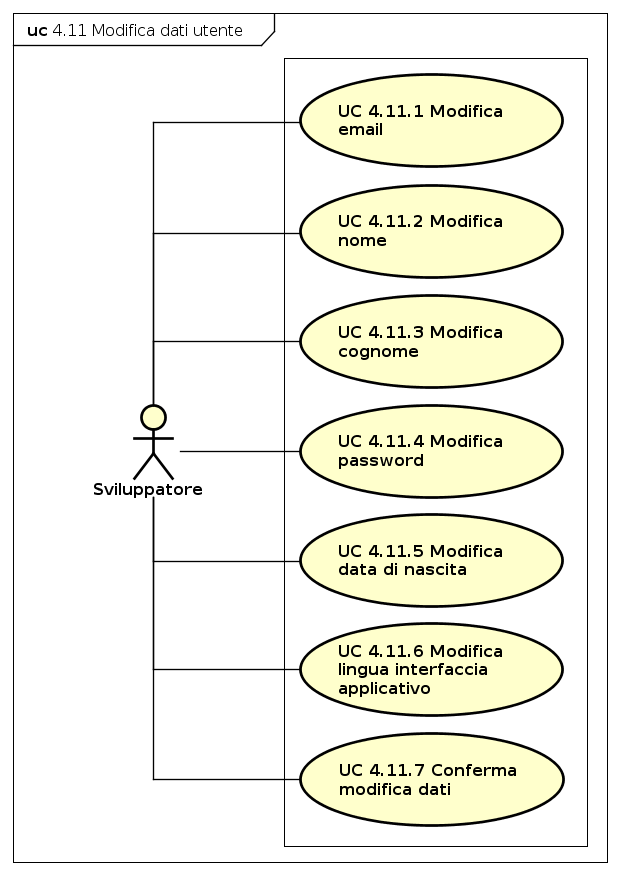
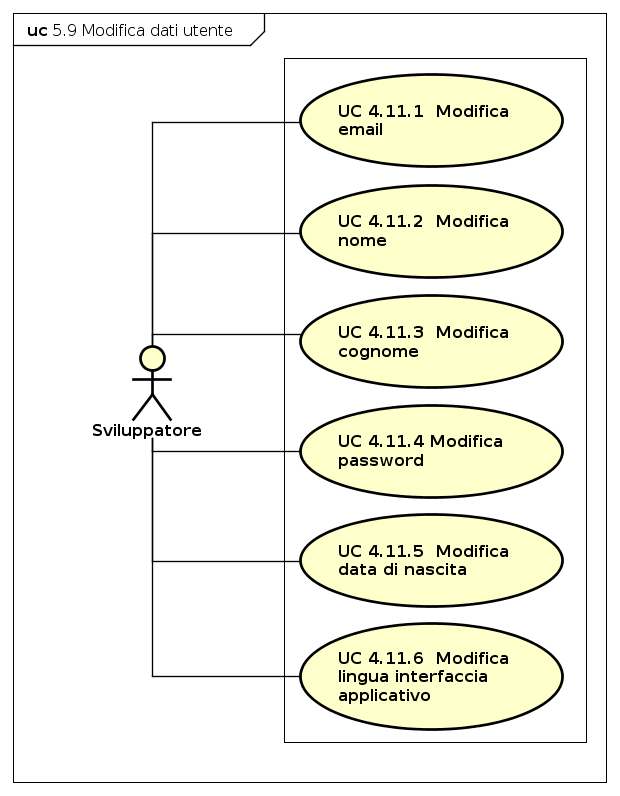
Modifcato sviluppatore

Changed region(s): [[0.0306, 0.0, 0.9806, 0.995]]

diff --git a/RP/Analisi_dei_requisiti/sez/sviluppatori.tex b/RP/Analisi_dei_requisiti/sez/sviluppatori.tex
@@ -44,8 +44,8 @@
 	\item[•]\textbf{Estensioni}:
 	\begin{enumerate}
 		\item UC 4.3.7 - Rimozione filtro;
-		\item UC 4.3.1.1 - Visualizzazione messaggio errore data errata;
-		\item UC 4.3.4.1 - Visualizzazione messaggio errore input errato.
+		\item UC 4.3.8 - Visualizzazione messaggio errore data errata;
+		\item UC 4.3.9 - Visualizzazione messaggio errore input errato.
 	\end{enumerate}
 	\item[•]\textbf{Inclusioni}:
 	\begin{enumerate}
@@ -65,22 +65,13 @@
 	\end{enumerate}
 	\item[•]\textbf{Estensioni}: 
 	\begin{enumerate}
-		\item UC 4.3.1.1 - Visualizzazione messaggio errore data errata;
-		\item UC 4.3.7 - Rimozione filtro.
+		\item UC 4.3.7 - Rimozione filtro;
+		\item UC 4.3.8 - Visualizzazione messaggio errore data errata;
 	\end{enumerate}
 	\item[•]\textbf{Inclusioni}:
 	\begin{enumerate}
 		\item UC 4.3.6 - Visualizzazione dati filtrati.
 	\end{enumerate}
-\end{itemize}
-
-\subsubsection{UC 4.3.1.1 - Visualizzazione messaggio errore data errata}
-\begin{itemize}
-	\item[•]\textbf{Attori}: Sviluppatore;
-	\item[•]\textbf{Descrizione}: lo sviluppatore visualizza un messaggio di errore sul periodo selezionato;
-	\item[•]\textbf{Precondizione}: lo sviluppatore ha inserito una data non conforme all'interno del filtro relativo al periodo temporale;
-	\item[•]\textbf{Postcondizione}: il filtro è stato erroneamente inserito pertanto viene visualizzato un messaggio di errore;
-	\item[•]\textbf{Flusso degli eventi}: lo sviluppatore ha inserito una data non conforme, cioè che non rispetta il formato stabilito o che indica un periodo temporale non idoneo, pertanto visualizza un messaggio di errore.
 \end{itemize}
 
 \subsubsection{UC 4.3.2 - Inserimento filtro fonte}
@@ -135,17 +126,6 @@
 	\end{enumerate}
 \end{itemize}
 
-\subsubsection{UC 4.3.4.1 - Visualizzazione messaggio errore input errato}
-\begin{itemize}
-	\item[•]\textbf{Attori}: Sviluppatore;
-	\item[•]\textbf{Descrizione}: lo sviluppatore visualizza un messaggio di errore sulla ricerca.
-	\item[•]\textbf{Precondizione}: lo sviluppatore ha inserito una frase non conforme;
-	\item[•]\textbf{Postcondizione}: lo sviluppatore visualizza un messaggio di errore relativo 
-	all'inserimento di un input errato, cioè non conforme a ciò che il sistema si attendeva.
-	\item[•]\textbf{Flusso degli eventi}: lo sviluppatore inserisce un input non conforme, cioè contenente caratteri non ammessi, e visualizza un messaggio di input errato.
-\end{itemize}
-
-
 \subsubsection{UC 4.3.5 - Inserimento filtro livello attendibilità}
 \begin{itemize}
 	\item[•]\textbf{Attori}: Sviluppatore;
@@ -186,6 +166,25 @@
 	\item[•]\textbf{Precondizione}: il filtro contiene un valore ed è applicato un filtraggio ai dati rispettando le condizioni di tale filtro;
 	\item[•]\textbf{Postcondizione}: il filtro è stato rimosso pertanto i dati visualizzati non rispetteranno più tale vincolo;
 	\item[•]\textbf{Flusso degli eventi}: lo sviluppatore seleziona il filtro e lo rimuove.
+\end{itemize}
+
+\subsubsection{UC 4.3.8 - Visualizzazione messaggio errore data errata}
+\begin{itemize}
+	\item[•]\textbf{Attori}: Sviluppatore;
+	\item[•]\textbf{Descrizione}: lo sviluppatore visualizza un messaggio di errore sul periodo selezionato;
+	\item[•]\textbf{Precondizione}: lo sviluppatore ha inserito una data non conforme all'interno del filtro relativo al periodo temporale;
+	\item[•]\textbf{Postcondizione}: il filtro è stato erroneamente inserito pertanto viene visualizzato un messaggio di errore;
+	\item[•]\textbf{Flusso degli eventi}: lo sviluppatore ha inserito una data non conforme, cioè che non rispetta il formato stabilito o che indica un periodo temporale non idoneo, pertanto visualizza un messaggio di errore.
+\end{itemize}
+
+\subsubsection{UC 4.3.9 - Visualizzazione messaggio errore input errato}
+\begin{itemize}
+	\item[•]\textbf{Attori}: Sviluppatore;
+	\item[•]\textbf{Descrizione}: lo sviluppatore visualizza un messaggio di errore sulla ricerca.
+	\item[•]\textbf{Precondizione}: lo sviluppatore ha inserito una frase non conforme;
+	\item[•]\textbf{Postcondizione}: lo sviluppatore visualizza un messaggio di errore relativo 
+	all'inserimento di un input errato, cioè non conforme a ciò che il sistema si attendeva.
+	\item[•]\textbf{Flusso degli eventi}: lo sviluppatore inserisce un input non conforme, cioè contenente caratteri non ammessi, e visualizza un messaggio di input errato.
 \end{itemize}
 
 \subsubsection{UC 4.4 - Visualizzazione storico frase}
@@ -390,7 +389,7 @@
 		\item UC 4.11.4 - Modifica password;
 		\item UC 4.11.5 - Modifica data di nascita;
 		\item UC 4.11.6 - Modifica lingua interfaccia applicativo;
-		\item UC 4.11.7 - Conferma modifica dati.
+		\item Conferma modifica dati.
 	\end{enumerate}
 \end{itemize}
 \subsubsection{UC 4.11.1 - Modifica email}
@@ -524,14 +523,14 @@
 	\end{enumerate}
 \end{itemize}
 
-\subsubsection{UC 4.11.7 - Conferma modifica dati}
-\begin{itemize}
-	\item[•]\textbf{Attori}: Sviluppatore;
-	\item[•]\textbf{Descrizione}: lo sviluppatore conferma la modifica dei dati inseriti;
-	\item[•]\textbf{Precondizione}: lo sviluppatore ha modificato i propri dati;
-	\item[•]\textbf{Postcondizione}: lo sviluppatore conferma la modifica e i dati vengono registrati nel sistema; 
-	\item[•]\textbf{Flusso degli eventi}: lo sviluppatore seleziona l'opzione di conferma di modifica dati.
-\end{itemize}
+%\subsubsection{UC 4.11.7 - Conferma modifica dati}
+%\begin{itemize}
+%	\item[•]\textbf{Attori}: Sviluppatore;
+%	\item[•]\textbf{Descrizione}: lo sviluppatore conferma la modifica dei dati inseriti;
+%	\item[•]\textbf{Precondizione}: lo sviluppatore ha modificato i propri dati;
+%	\item[•]\textbf{Postcondizione}: lo sviluppatore conferma la modifica e i dati vengono registrati nel sistema; 
+%	\item[•]\textbf{Flusso degli eventi}: lo sviluppatore seleziona l'opzione di conferma di modifica dati.
+%\end{itemize}
 
 \subsubsection{UC 4.12 - Logout}
 \begin{itemize}

diff --git a/RP/Analisi_dei_requisiti/sez/amministratore.tex b/RP/Analisi_dei_requisiti/sez/amministratore.tex
@@ -3,7 +3,7 @@
 \subsubsection{Panoramica amministratore}
 \begin{figure}[H]
 \centering
-\includegraphics[width=17cm, height= 20cm]{img/PanoramicaAmministratore.png} 
+\includegraphics[width=12cm, keepaspectratio]{img/PanoramicaAmministratore.png} 
 \caption{Panoramica amministratore}
 \end{figure}
 
